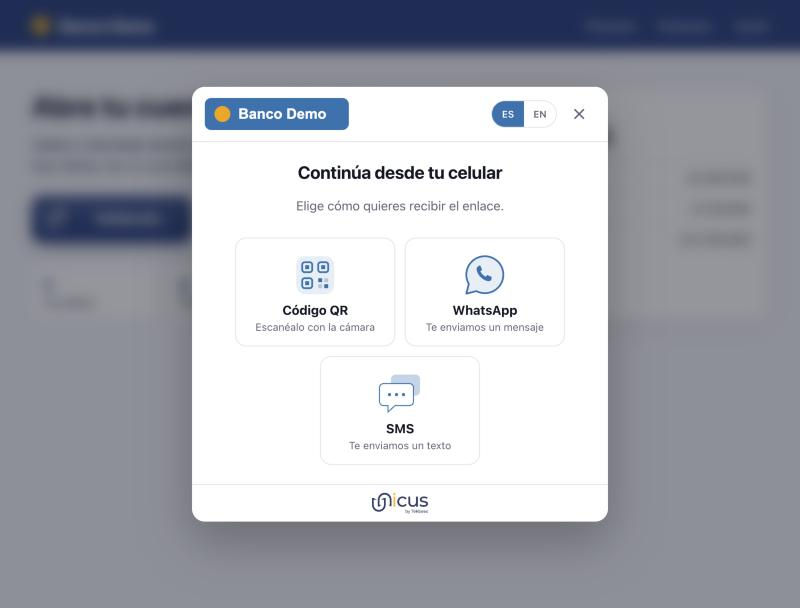
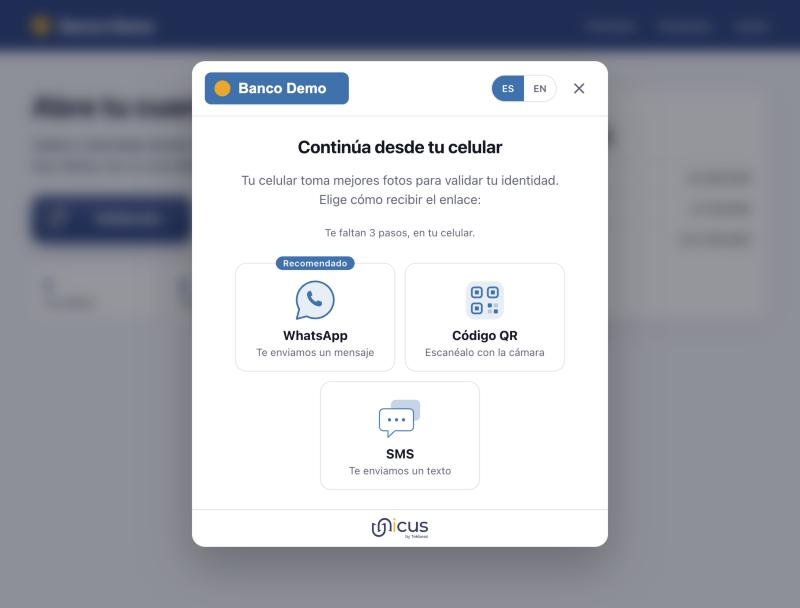
docs(web-sdk-5): hand-off guidance (why the phone, steps left, WhatsApp recommended, waiting hint), back to the computer at the end; new screenshot

diff --git a/unicus-es/sdk-web-v5/flows-and-handoff.md b/unicus-es/sdk-web-v5/flows-and-handoff.md
@@ -116,6 +116,16 @@ usuario puede enviarlo de nuevo después de unos segundos; Unicus limita cuánto
 mensajes pueden recibir una transacción y un número de celular, y lo indica en
 la pantalla cuando se alcanza el límite (el usuario aún puede usar el código QR).
 
+La pantalla le explica al usuario por qué el celular (su cámara toma mejores
+fotos) y cuántos pasos le faltan ahí. Cuando tu empresa tiene WhatsApp, aparece
+primero y marcado como recomendado. Si después de un minuto y medio en la
+pantalla del QR o del mensaje el celular no ha empezado, una sugerencia le indica
+qué intentar (acercar el celular, enviar el mensaje de nuevo o usar otro canal).
+
+En un celular abierto desde un código QR o un mensaje, la pantalla de resultado
+devuelve al usuario al computador, donde se muestra el resultado y tu página
+continúa.
+
 <figure><img src="../.gitbook/assets/web-sdk-5-handoff-options.jpg" alt="Opciones de traspaso en un computador: código QR, WhatsApp y SMS" width="563"><figcaption><p>Los canales habilitados para la empresa, ofrecidos en el computador.</p></figcaption></figure>
 
 La pantalla del computador se convierte entonces en un **espejo**: muestra en

diff --git a/unicus/sdk-web-v5/flows-and-handoff.md b/unicus/sdk-web-v5/flows-and-handoff.md
@@ -108,6 +108,15 @@ user can send it again after a few seconds; Unicus limits how many messages
 one transaction and one phone number can receive, and says so on the screen
 when the limit is reached (the user can still use the QR code).
 
+The screen tells the user why the phone (its camera takes better pictures) and
+how many steps are left there. When your company has WhatsApp, it comes first
+and is marked as recommended. If the phone has not started after a minute and a
+half on the QR or message screen, a hint suggests what to try (move the phone
+closer, send the message again, or use another channel).
+
+On a phone opened from a QR code or a message, the result screen sends the user
+back to the computer, where the result is shown and your page continues.
+
 <figure><img src="../.gitbook/assets/web-sdk-5-handoff-options.jpg" alt="Hand-off options on a computer: QR code, WhatsApp and SMS" width="563"><figcaption><p>The channels enabled for the company, offered on the computer.</p></figcaption></figure>
 
 The computer screen then becomes a **mirror**: it shows each step the phone
